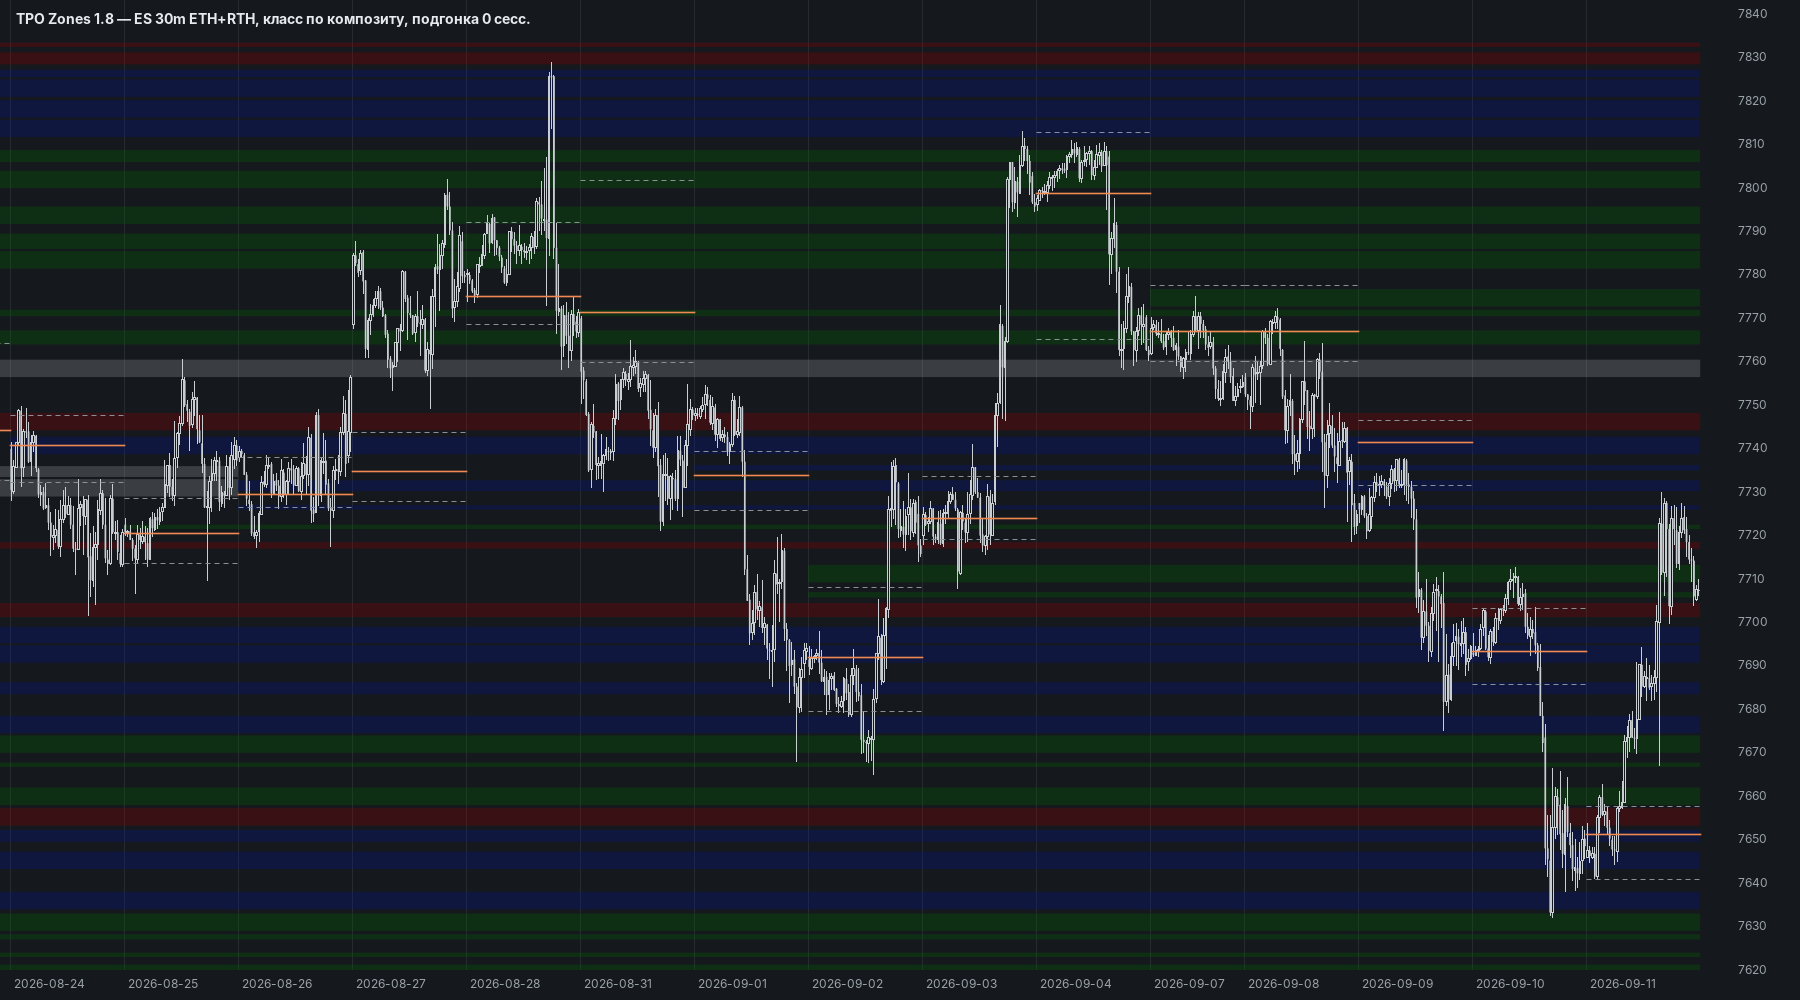
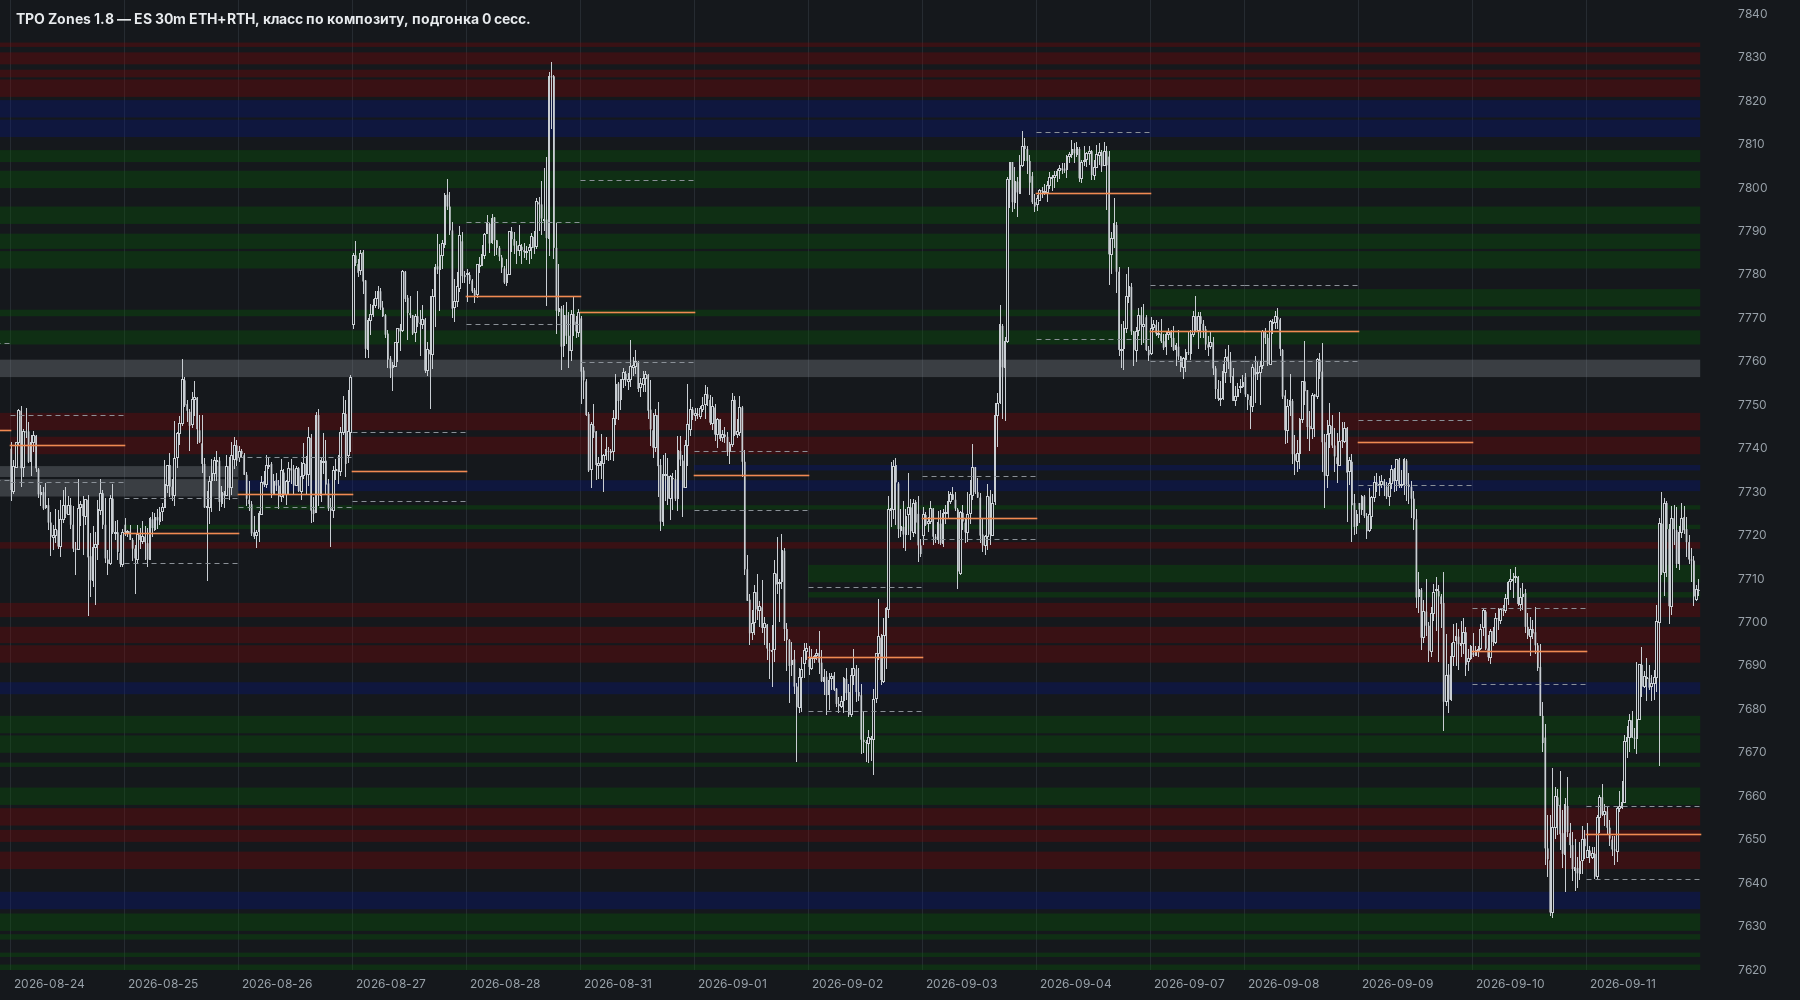
1.8: blue only for zones touching the composite core
With the dense map the whole body core gave 233 blue zones of about 700
(10-15 zones inside a 50-pt core); only zones touching the core give
116. Colour match 34% -> 32%. Jar rebuilt, SDK calls unchanged.

Claude-Session: https://claude.ai/code/session_01PTkojwxsX3jzc4BttC3Khg

diff --git a/motivewave/src/patterns/zones/TpoZonesStudy.java b/motivewave/src/patterns/zones/TpoZonesStudy.java
@@ -99,7 +99,7 @@ public class TpoZonesStudy extends Study {
         g.addRow(new DoubleDescriptor(S_GAP, "Сессионные зоны: узел ближе, п., к существующей зоне — её подтверждение (зазор между зонами)", 0.5, 0, 20, 0.25));
         g.addRow(new DoubleDescriptor(S_MAX, "Сессионные зоны: не шире, п.", 4.0, 1, 20, 0.5));
         g.addRow(new BooleanDescriptor(MINOR, "Минорные серые зоны: слабый узел сессии там, где нет других зон; сильный узел позже его вытесняет", true));
-        g.addRow(new BooleanDescriptor(CORE_TOUCH, "Сессионные зоны: синяя — только зона, задевающая ядро композита (≤ 10 п.), а не всё ядро тела", false));
+        g.addRow(new BooleanDescriptor(CORE_TOUCH, "Сессионные зоны: синяя — только зона, задевающая ядро композита (≤ 10 п.), а не всё ядро тела", true));
         g.addRow(new BooleanDescriptor(REFINE, "Сессионные зоны: уточнение — внутри узла пошире все скопления тел свечей, каждое — зона (выкл. — одно скопление)", true));
         g.addRow(new DoubleDescriptor(S_SHARE, "Сессионные зоны: узел — вершина не ниже доли главного узла дня", 0.25, 0, 1, 0.05));
         g.addRow(new IntegerDescriptor(S_PEAK, "Сессионные зоны: вершина узла от, TPO", 3, 1, 13, 1));
@@ -313,7 +313,7 @@ public class TpoZonesStudy extends Study {
         p.sessMinGapPts = st.getDouble(S_GAP, 0.5);
         p.sessMaxPts = st.getDouble(S_MAX, 4.0);
         p.sessRefine = st.getBoolean(REFINE, true);
-        p.sessCoreTouch = st.getBoolean(CORE_TOUCH, false);
+        p.sessCoreTouch = st.getBoolean(CORE_TOUCH, true);
         p.sessMinor = st.getBoolean(MINOR, true);
         p.sessPeakShare = st.getDouble(S_SHARE, 0.25);
         p.sessBodyShare = st.getDouble(S_BODY, 0.5);

diff --git a/motivewave/src/patterns/zones/ZoneEngine.java b/motivewave/src/patterns/zones/ZoneEngine.java
@@ -110,7 +110,7 @@ public final class ZoneEngine {
         public boolean sessMinor = true;          // минорные (серые) зоны: слабый узел сессии (вершина < sessPeakShare главного, но ≥ sessMinPeak
                                                   // TPO) — серая зона там, где нет других (общее правило зазора sessMinGapPts); всегда серая
         public int sessMinorMinPeak = 2;          // ... вершина минорного узла — от стольких TPO (тонкий профиль тренда: 1–2 TPO на строку)
-        public boolean sessCoreTouch = false;     // синяя — только зона, задевающая ядро композита (≤ 10 п.), а не всё ядро тела
+        public boolean sessCoreTouch = true;      // синяя — только зона, задевающая ядро композита (≤ 10 п.), а не всё ядро тела
         public boolean sessRefine = true;         // уточнение: мнимая зона пошире (строки узла ≥ sessParentShare вершины, ± 1 п.), внутри —
                                                   // все скопления тел свечей сессии (не одно), каждое — зона
         public double sessParentShare = 0.7;      // ... мнимая зона: строки профиля не ниже этой доли вершины узла

diff --git a/motivewave/README.md b/motivewave/README.md
@@ -21,7 +21,8 @@
 - **1.8** (ветка `zones-1.8`) — плотная разметка, как ручная карта зон: тонкие зоны почти сплошным ковром,
   цвет областями, серые внутри областей. По умолчанию: зазор между зонами 0.5 п. (было 3), узел сессии — от
   25% главного узла дня (было 50%), зона не шире 4 п. (было 8), минорные серые зоны включены, на графике все
-  зоны (было — 6 ближайших к open за сессию), синяя — всё ядро тела композита (как до последней правки 1.7).
+  зоны (было — 6 ближайших к open за сессию), синяя — только зона, задевающая ядро композита (как в конце 1.7;
+  с «синяя — всё ядро тела» в плотной разметке синих было 233 из ~700 зон, так — 116).
   Замер на сырых барах против ручных (111 зон): найдено 37% → 48%, IoU ≥ 0.5 18% → 23%, ошибка края 1.59 →
   1.36 п., цвет 32% → 34%, зон в ± 15 п. от цены 2.0 → 3.2 (у ручных 3.6); в последней сессии ≈ 22 зоны на
   100 п. около цены.
